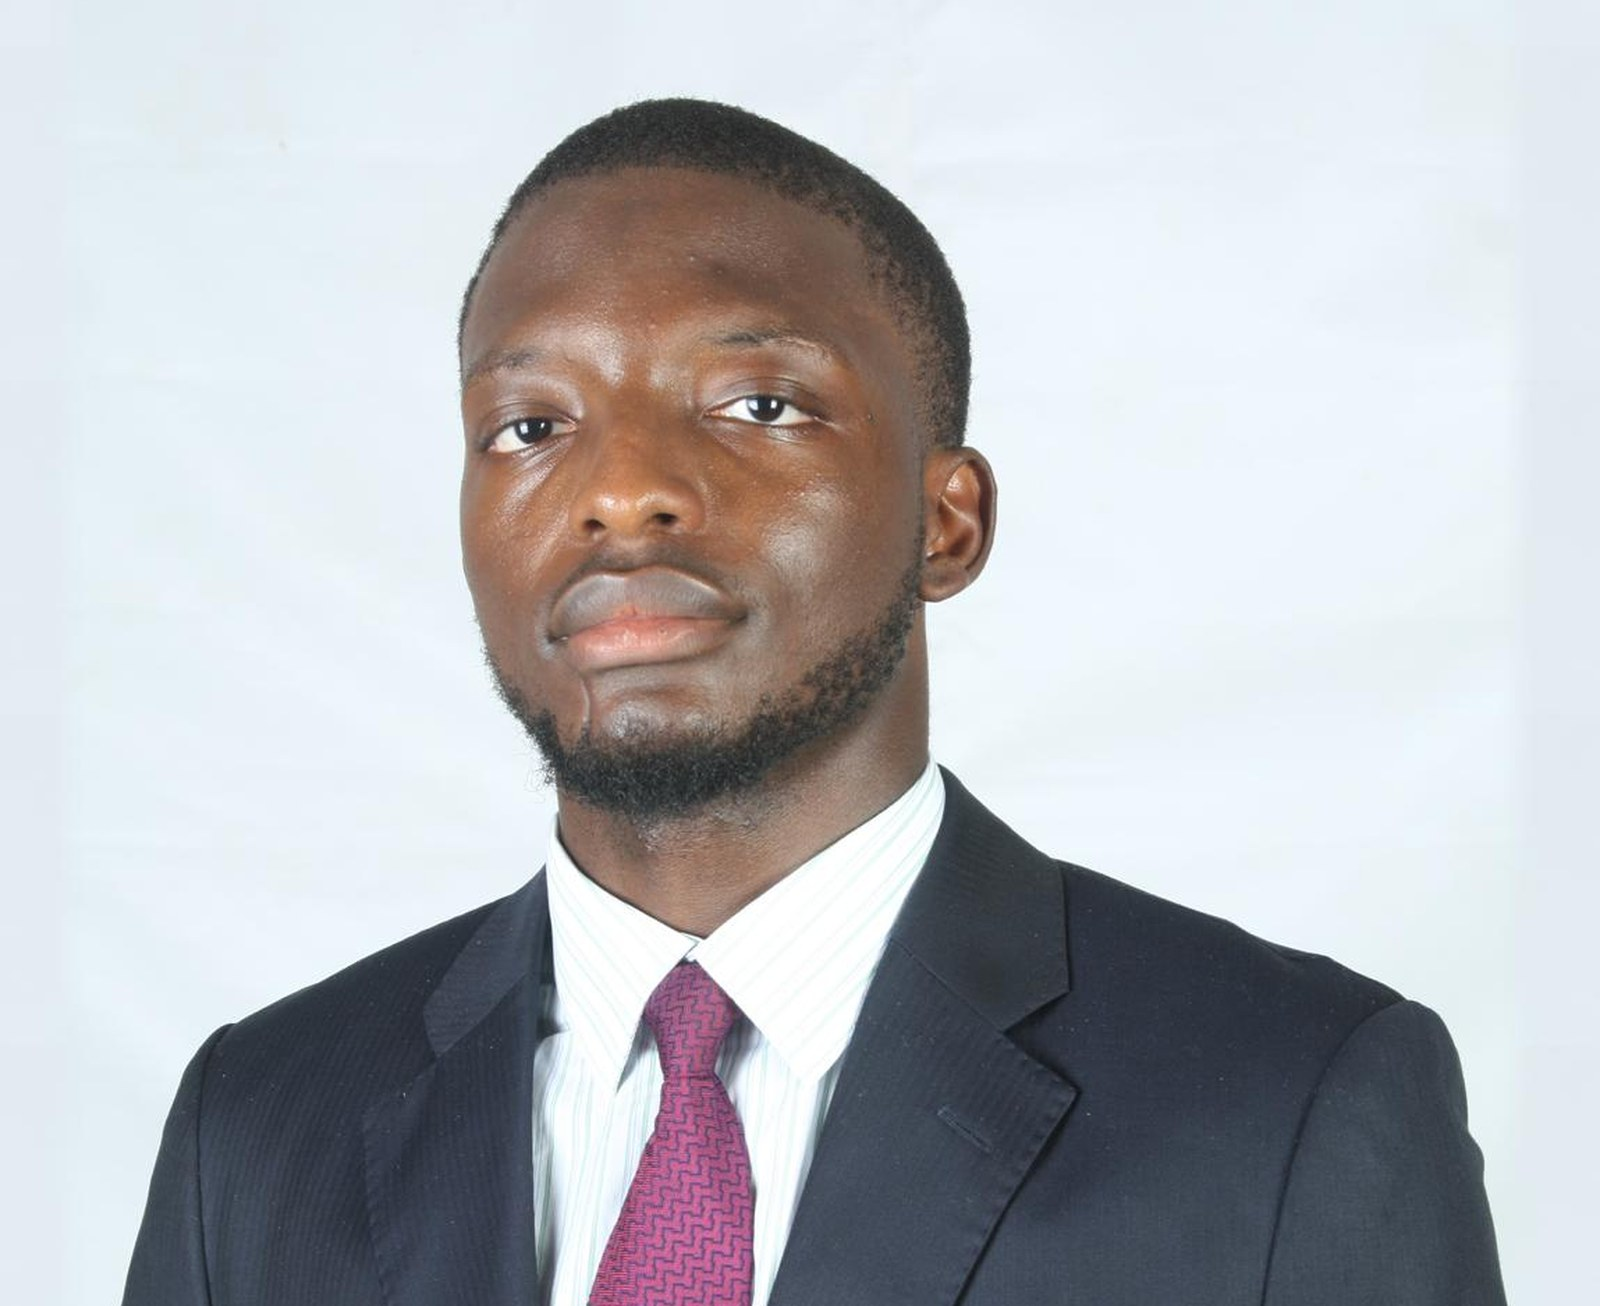
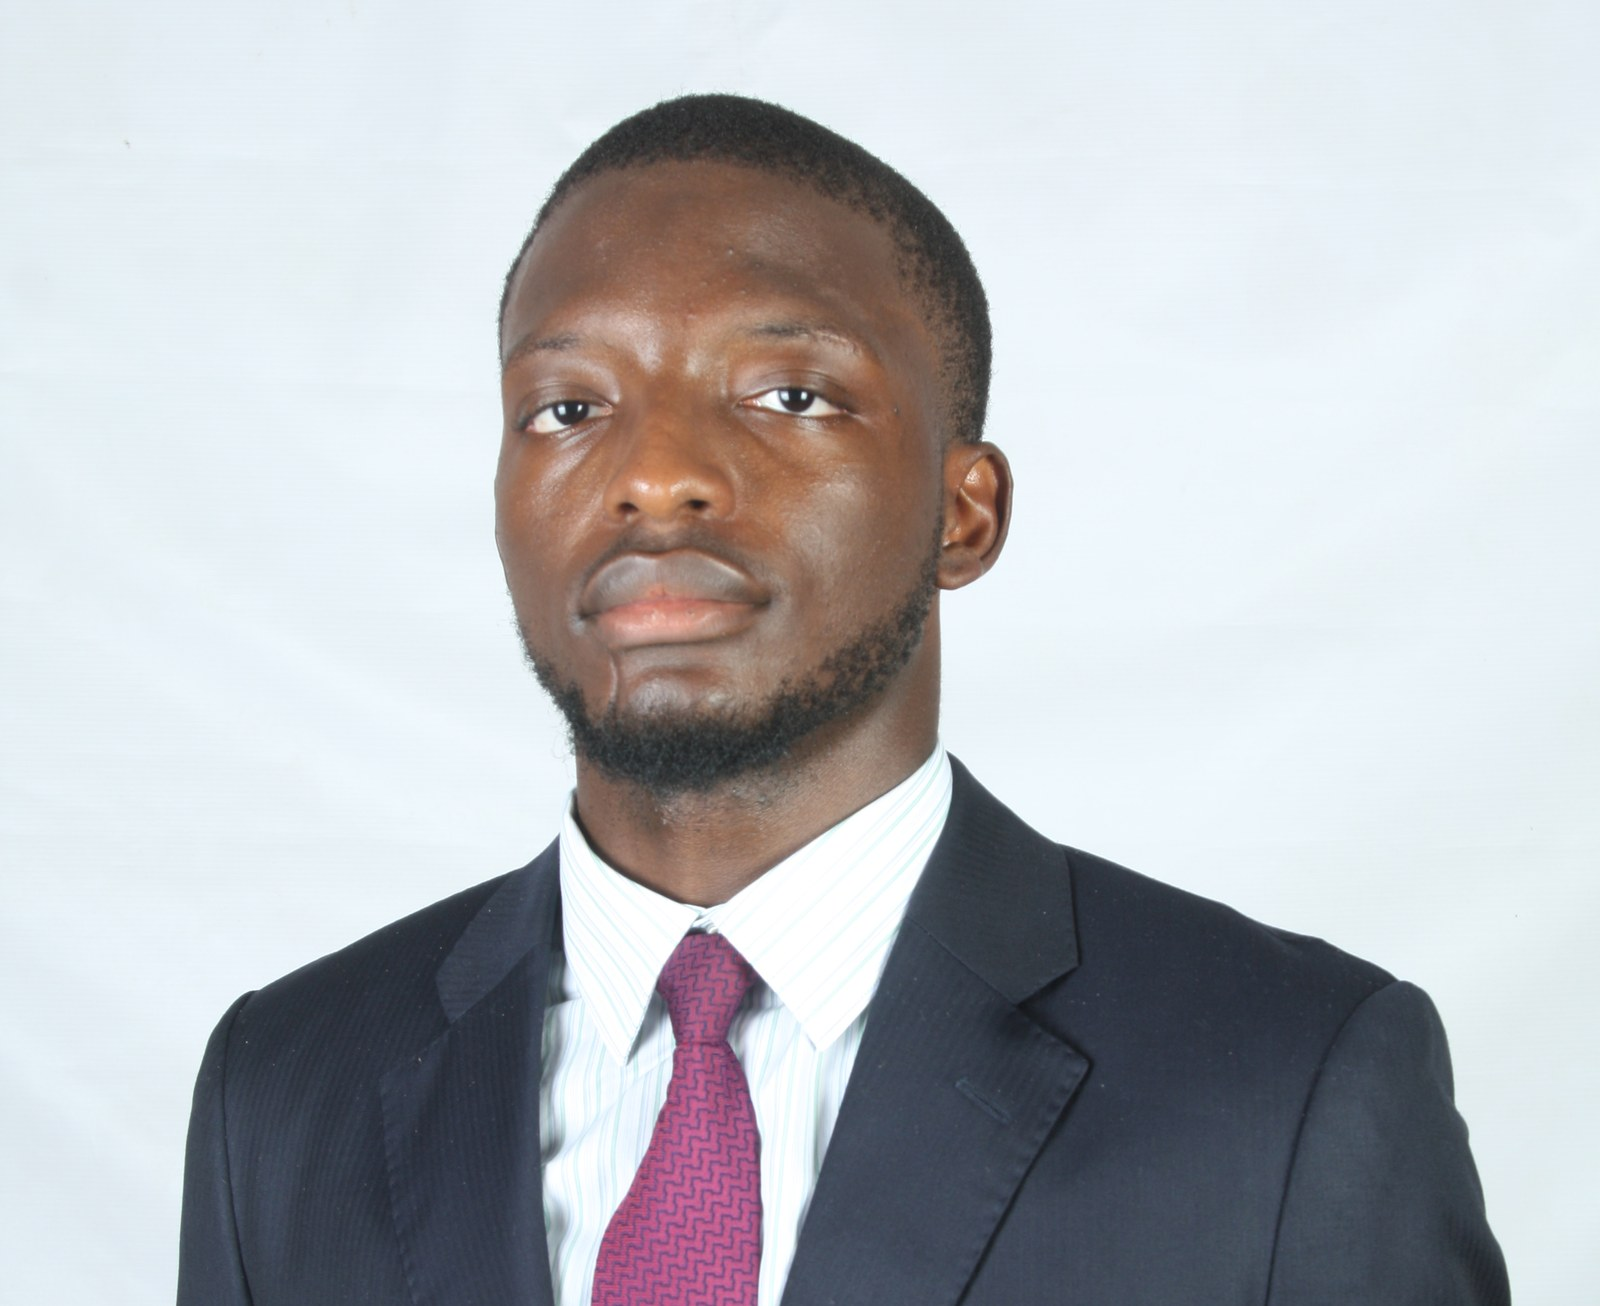
Move Vianney's headshot to Giovanny, remove Vianney's photo
Giovanny Bikak Mbal now uses the "Headshot II" photo previously
assigned to Vianney Tanifor. Vianney's profile reverts to the
placeholder silhouette on both the listing page and profile page.

diff --git a/app/about/leadership/[slug]/page.tsx b/app/about/leadership/[slug]/page.tsx
@@ -27,7 +27,6 @@ const PEOPLE: Record<string, { name: string; role: string; roleFr?: string; bio:
     roleFr: "Membre du Conseil d'Administration",
     bio: "Vianney brings expertise in organizational development and community engagement to the Gwags governance board. His experience supports the foundation's mission to build credible, well-structured institutions.",
     linkedin: 'https://www.linkedin.com/in/vianney-tanifor-9a76b0280/',
-    image: '/images/leadership/vianney-tanifor.jpg',
   },
   'noa-winner': {
     name: 'Winner Noa',

diff --git a/app/about/leadership/page.tsx b/app/about/leadership/page.tsx
@@ -35,7 +35,6 @@ const governanceBoard = [
     roleFr: "Membre du Conseil d'Administration",
     bio:  'Vianney brings expertise in organizational development and community engagement to the Gwags governance board.',
     href: '/about/leadership/vianney-tanifor',
-    image: '/images/leadership/vianney-tanifor.jpg',
   },
 ]
 
